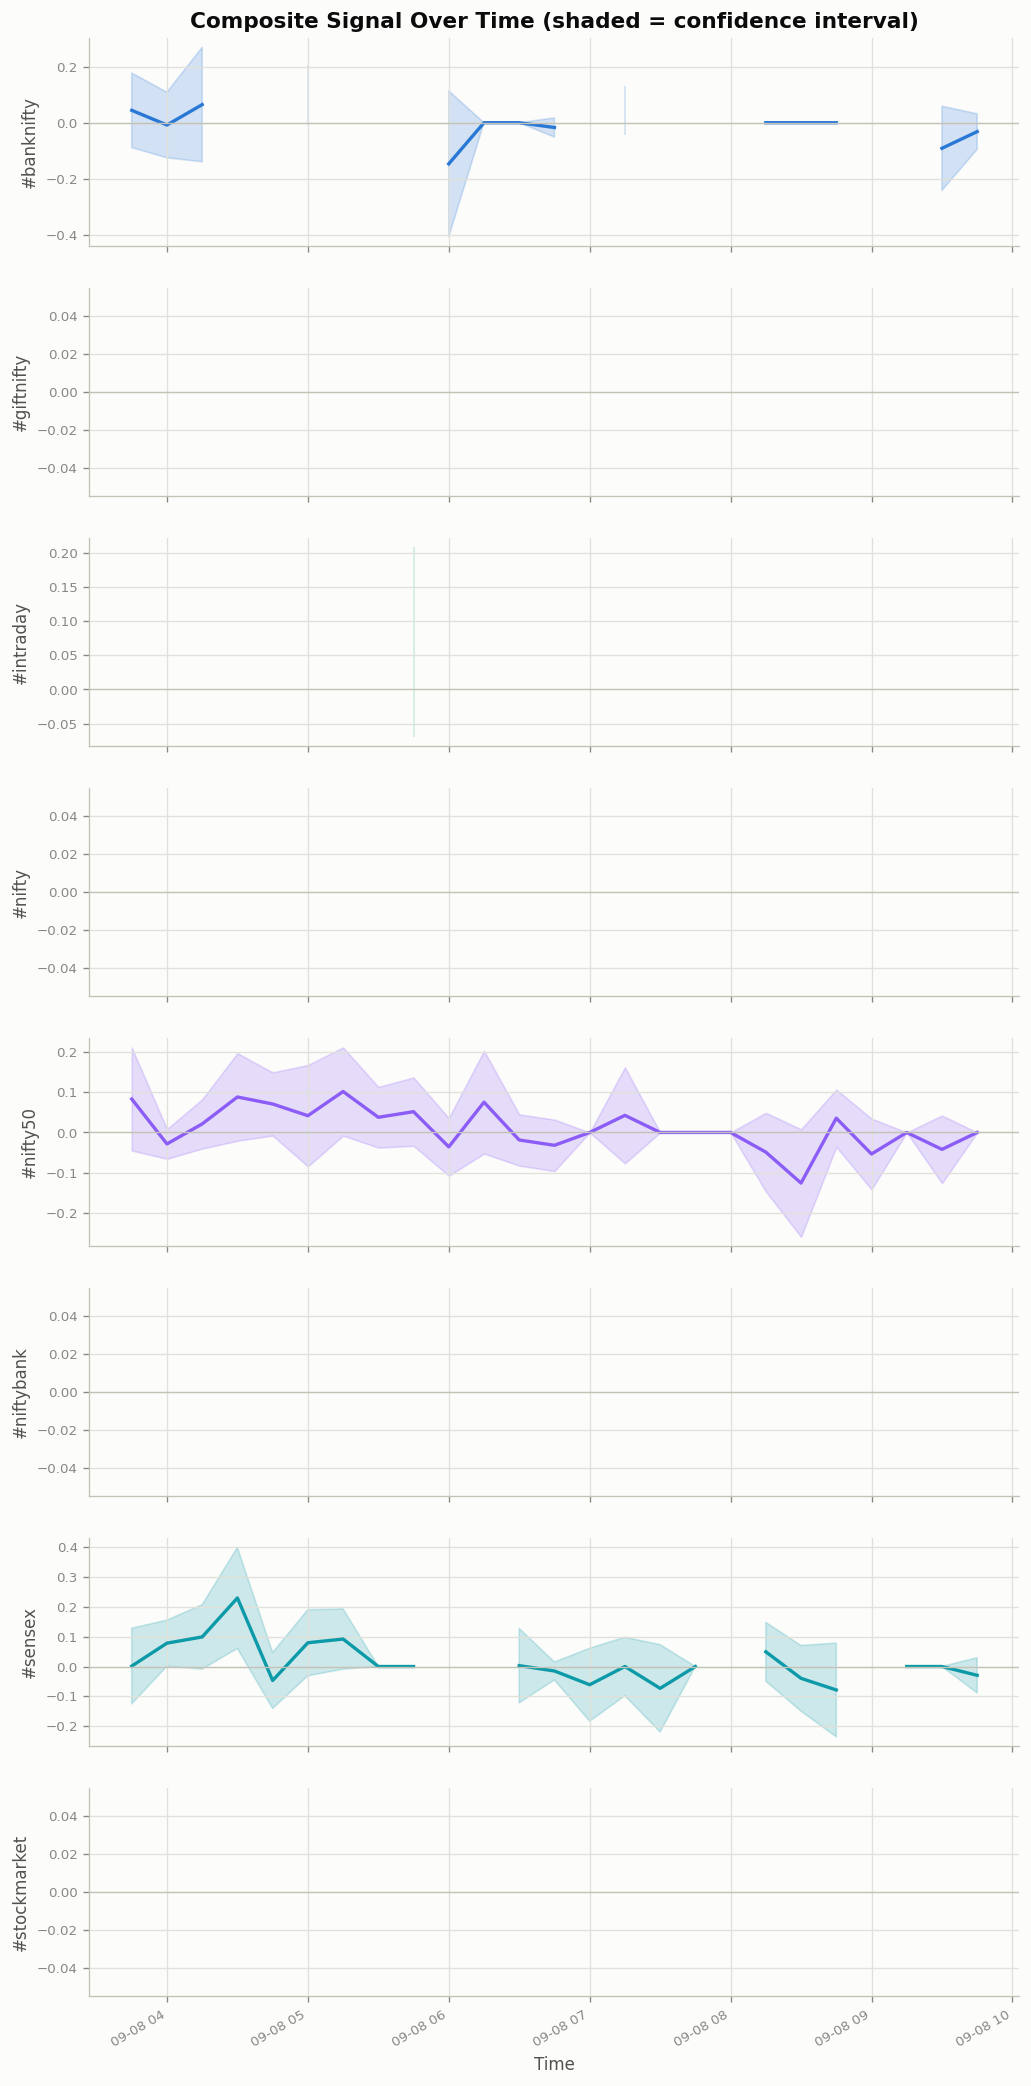
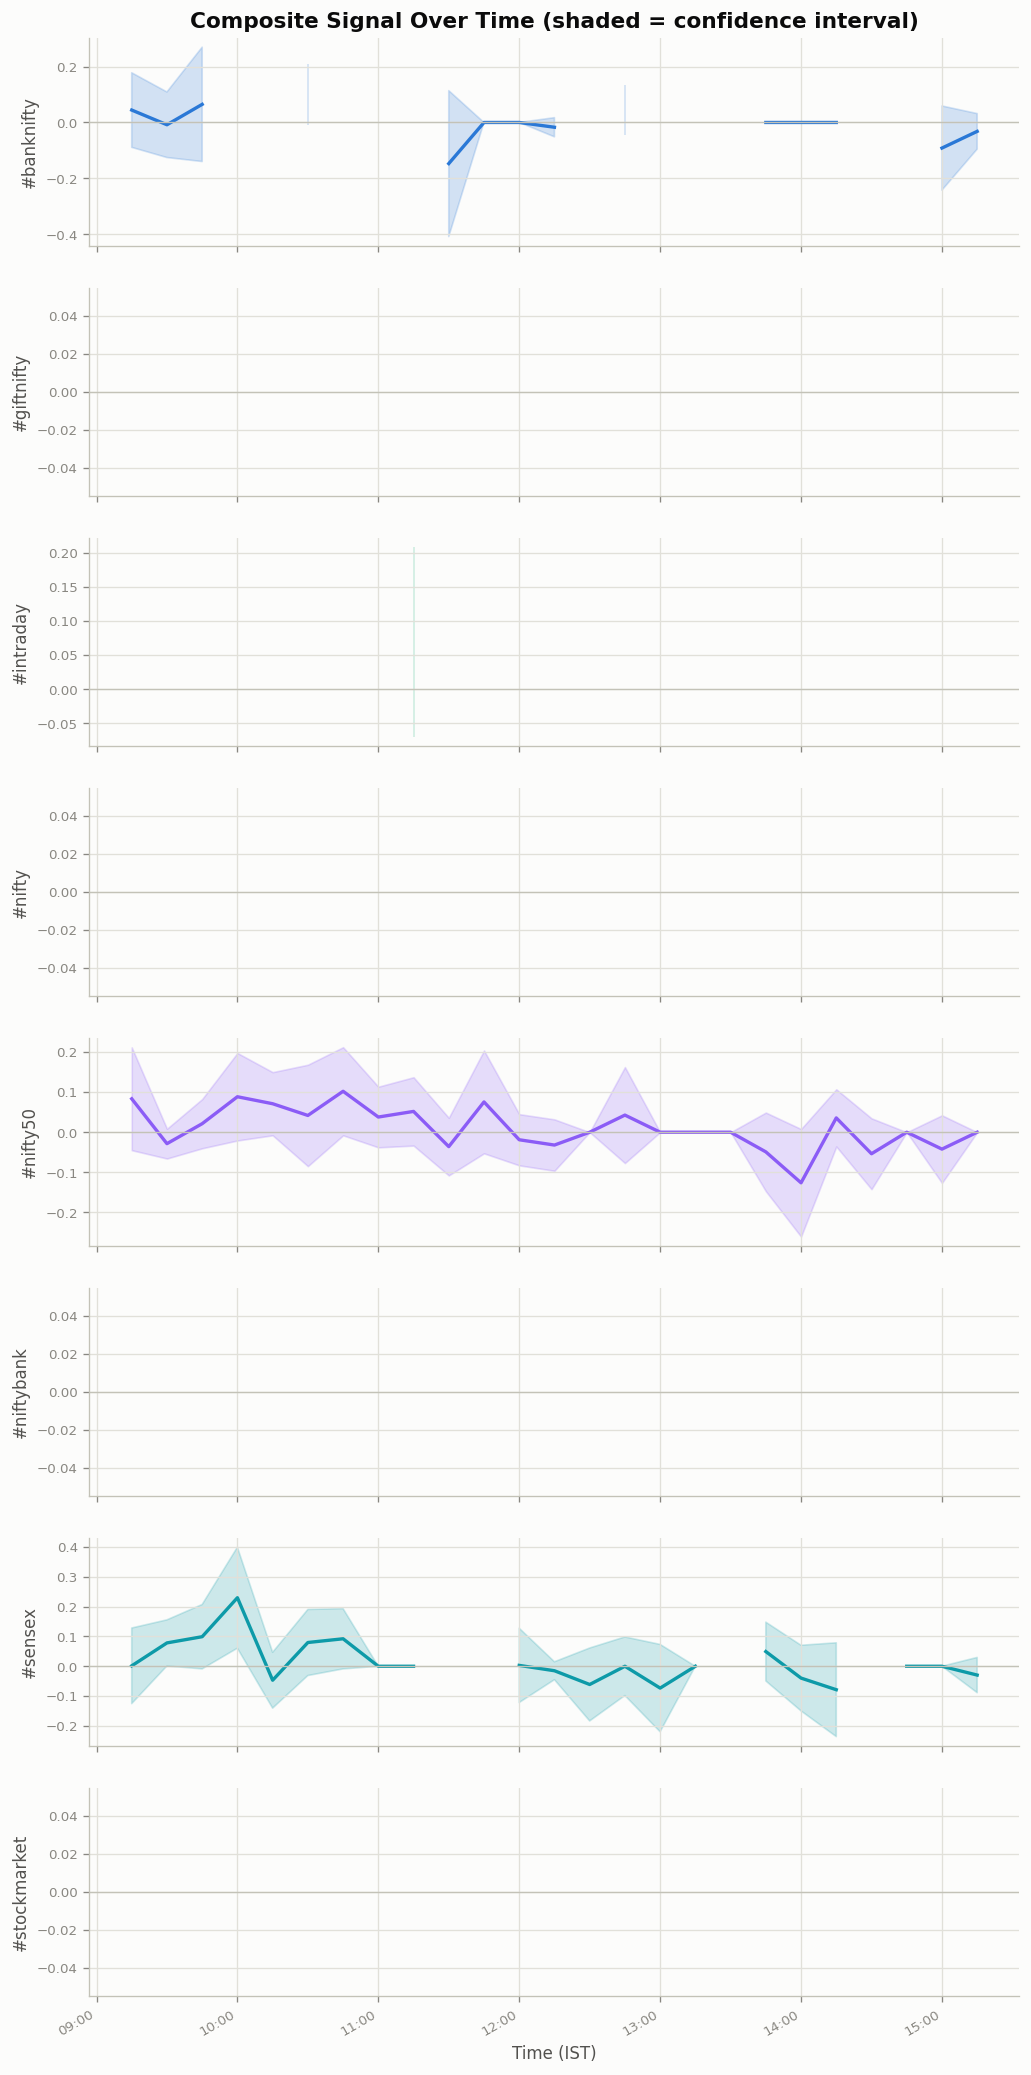
Plot time in IST with an unambiguous axis format
Two problems on the time axis, both spotted from a reader asking what
"09-08 04" meant.

It was UTC. Timestamps are stored in UTC, which is right, but these are
charts of an Indian market read by people who think in IST -- so the NSE
session appeared at 03:45-10:00 and the busiest part of the trading day
looked like four in the morning. Convert for display and label the axis
Time (IST). The market-hours filter already worked in IST; only the
charts didn't.

And the format was matplotlib's default for a sub-day range crossing
midnight, "%m-%d %H", which renders as "09-08 04" and reads like a
three-part date rather than a time. Use %H:%M within a day and
"%d %b %H:%M" across days.

Sample charts regenerated; the volume plot now visibly spans 09:00-15:30.

diff --git a/src/visualization/streaming_plots.py b/src/visualization/streaming_plots.py
@@ -14,6 +14,7 @@ import matplotlib
 
 matplotlib.use("Agg")  # headless: no display backend needed to write PNGs
 
+import matplotlib.dates as mdates
 import matplotlib.pyplot as plt
 import pandas as pd
 import pyarrow.dataset as ds
@@ -49,6 +50,9 @@ _INK_SECONDARY = "#52514e"
 _INK_MUTED = "#898781"
 _GRIDLINE = "#e1e0d9"
 _BASELINE = "#c3c2b7"
+
+# Charts of an Indian market are read in IST, even though timestamps are stored in UTC.
+_DISPLAY_TZ = "Asia/Kolkata"
 
 
 def _hashtag_colors(hashtags: list[str]) -> dict[str, str]:
@@ -89,8 +93,35 @@ def _iter_processed_rows(processed_dir: Path) -> Iterator[dict[str, Any]]:
         yield from batch.to_pylist()
 
 
+def _to_display_time(bucketed: pd.DataFrame) -> pd.DataFrame:
+    """Converts bucket_start from stored UTC to IST for display.
+
+    Timestamps are stored in UTC — correct, unambiguous — but these are charts of an
+    Indian market, read by people who think in IST. Plotting UTC puts the NSE session
+    (09:15-15:30 IST) at 03:45-10:00 on the axis, so the busiest part of the trading day
+    appears to happen at four in the morning. The tz is dropped after conversion so
+    matplotlib formats exactly the local wall-clock time it is handed.
+    """
+    out = bucketed.copy()
+    stamps = pd.to_datetime(out["bucket_start"], utc=True).dt.tz_convert(_DISPLAY_TZ)
+    out["bucket_start"] = stamps.dt.tz_localize(None)
+    return out
+
+
+def _format_time_axis(ax: plt.Axes, span_days: float) -> None:
+    """Applies an unambiguous time format.
+
+    matplotlib's default for a sub-day range that straddles midnight is `%m-%d %H`, which
+    renders as "09-08 04" and reads like a three-part date rather than a time. Spell the
+    month out and separate the clock time so there is nothing to misread.
+    """
+    fmt = "%d %b %H:%M" if span_days > 1 else "%H:%M"
+    ax.xaxis.set_major_formatter(mdates.DateFormatter(fmt))
+
+
 def plot_volume_over_time(bucketed: pd.DataFrame, output_path: Path, dpi: int) -> None:
     """Tweet-volume-over-time plot from aggregated bucket data (not raw tweets)."""
+    bucketed = _to_display_time(bucketed)
     fig, ax = plt.subplots(figsize=(10, 5), facecolor=_SURFACE)
     _style_axes(ax)
 
@@ -102,7 +133,9 @@ def plot_volume_over_time(bucketed: pd.DataFrame, output_path: Path, dpi: int) -
             label=f"#{hashtag}", color=colors[hashtag], linewidth=2,
         )
 
-    ax.set_xlabel("Time")
+    span = (bucketed["bucket_start"].max() - bucketed["bucket_start"].min()).total_seconds() / 86400
+    _format_time_axis(ax, span)
+    ax.set_xlabel("Time (IST)")
     ax.set_ylabel("Tweets per 15-min bucket")
     ax.set_title("Tweet Volume Over Time", color=_INK_PRIMARY, fontsize=13, fontweight="bold")
     ax.legend(frameon=False, labelcolor=_INK_SECONDARY)
@@ -119,6 +152,7 @@ def plot_signal_with_ci(bucketed: pd.DataFrame, output_path: Path, dpi: int) -> 
     One subplot per hashtag (small multiples) rather than overlapping filled CI bands on
     a single axes — four semi-transparent bands on top of each other is unreadable.
     """
+    bucketed = _to_display_time(bucketed)
     hashtags = sorted(bucketed["hashtag"].unique().tolist())
     colors = _hashtag_colors(hashtags)
 
@@ -136,8 +170,10 @@ def plot_signal_with_ci(bucketed: pd.DataFrame, output_path: Path, dpi: int) -> 
         ax.axhline(0, color=_BASELINE, linewidth=0.8)
         ax.set_ylabel(f"#{hashtag}", color=_INK_SECONDARY, fontsize=10)
 
+    span = (bucketed["bucket_start"].max() - bucketed["bucket_start"].min()).total_seconds() / 86400
+    _format_time_axis(axes[-1], span)
     axes[0].set_title("Composite Signal Over Time (shaded = confidence interval)", color=_INK_PRIMARY, fontsize=13, fontweight="bold")
-    axes[-1].set_xlabel("Time")
+    axes[-1].set_xlabel("Time (IST)")
     fig.autofmt_xdate()
 
     output_path.parent.mkdir(parents=True, exist_ok=True)

diff --git a/tests/test_visualization.py b/tests/test_visualization.py
@@ -10,6 +10,7 @@ import pandas as pd
 import pytest
 
 from src.visualization.streaming_plots import (
+    _to_display_time,
     iter_plot_all,
     plot_hashtag_engagement_distribution,
     plot_signal_with_ci,
@@ -128,3 +129,22 @@ def test_iter_plot_all_peak_memory_bounded_by_sample_size(tmp_path: Path, bucket
     # Loose bound: peak memory should be a small multiple of the sample size, nowhere
     # near proportional to n_rows (20,000 rows would blow well past this if unbounded).
     assert peak_bytes < 60 * 1024 * 1024  # 60MB
+
+
+def test_display_time_converts_utc_to_ist() -> None:
+    """Timestamps are stored in UTC, but these are charts of an Indian market. Plotting
+    UTC put the NSE session (09:15-15:30 IST) at 03:45-10:00 on the axis, so the busiest
+    part of the trading day appeared to happen at four in the morning."""
+    df = pd.DataFrame(
+        {
+            "bucket_start": pd.to_datetime(["2026-09-08T03:45:00Z", "2026-09-08T10:00:00Z"], utc=True),
+            "hashtag": ["nifty50", "nifty50"],
+        }
+    )
+
+    out = _to_display_time(df)
+
+    # 03:45 UTC is 09:15 IST — the NSE open; 10:00 UTC is 15:30 IST — the close.
+    assert [t.strftime("%H:%M") for t in out["bucket_start"]] == ["09:15", "15:30"]
+    assert out["bucket_start"].dt.tz is None, "tz dropped so matplotlib prints wall-clock as given"
+    assert df["bucket_start"].dt.tz is not None, "must not mutate the caller's frame"
